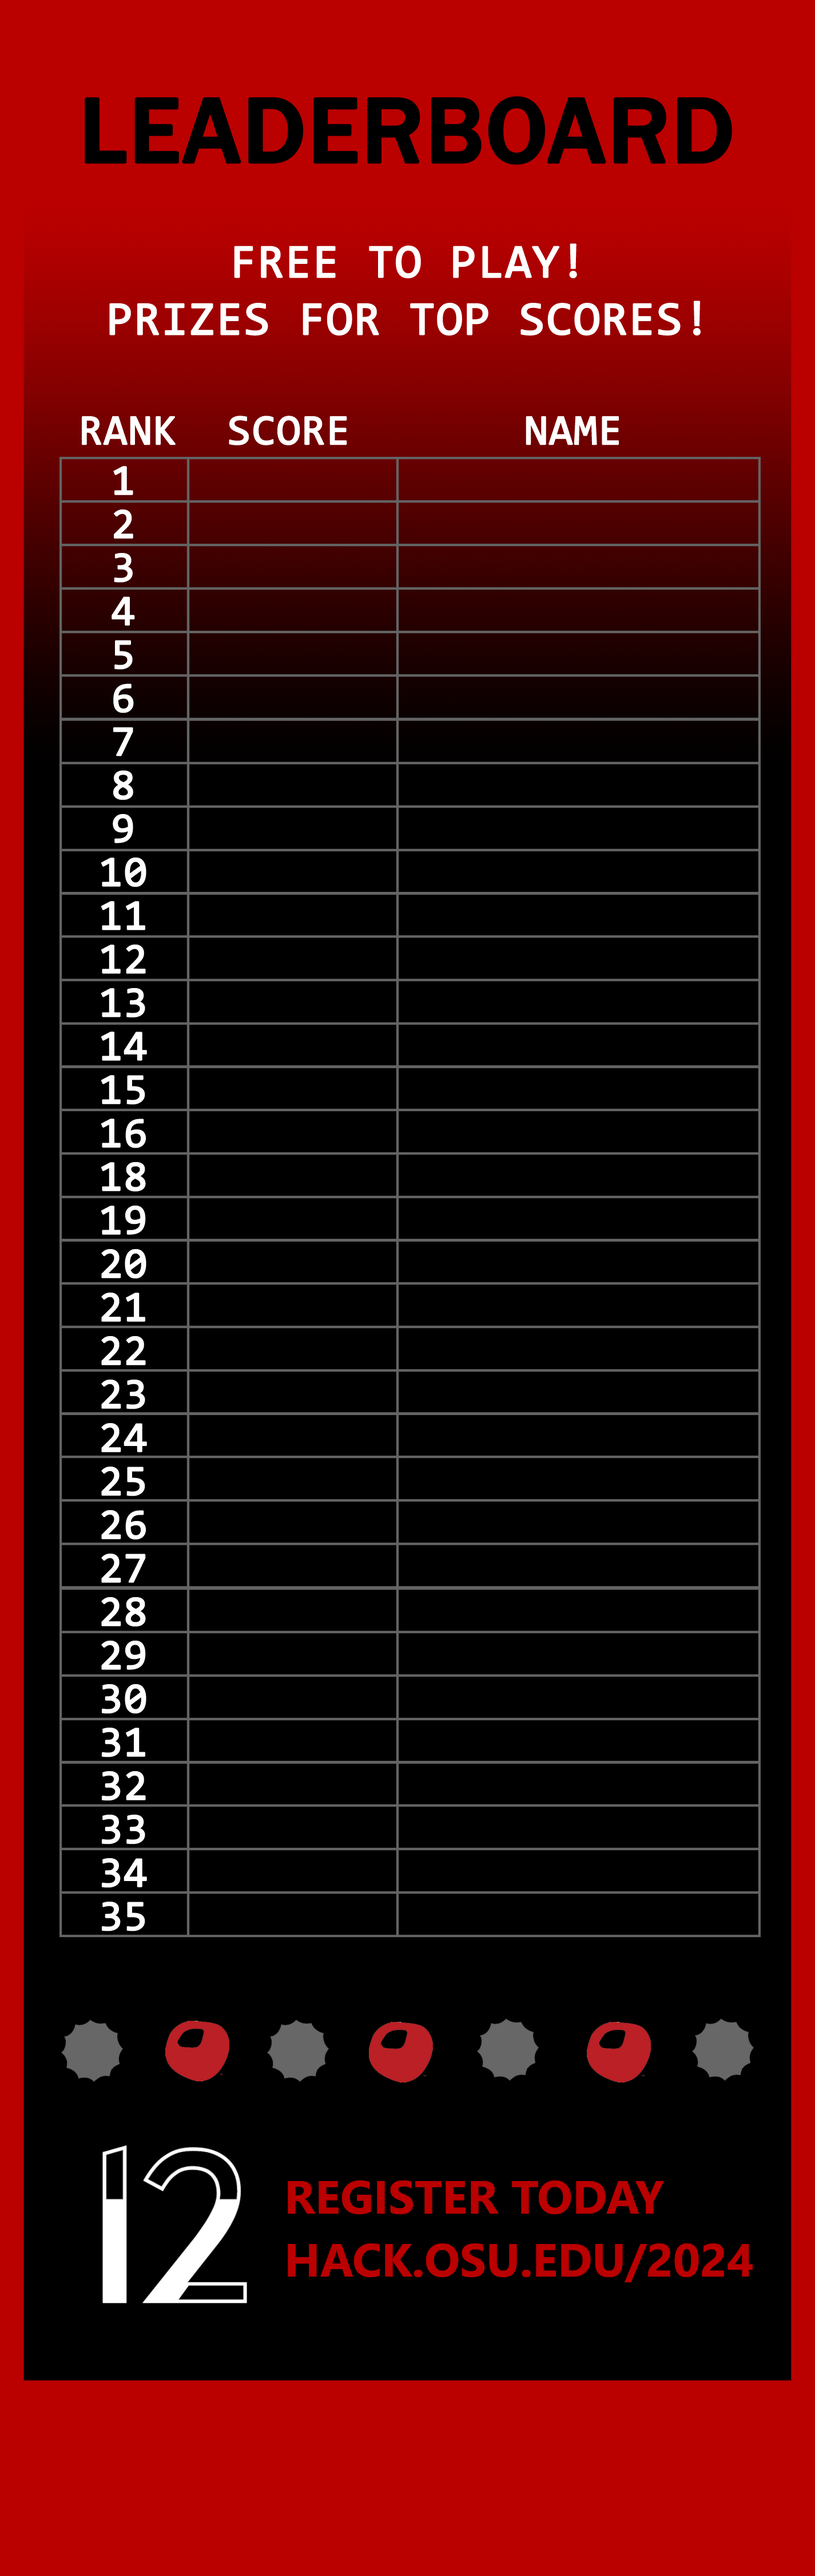
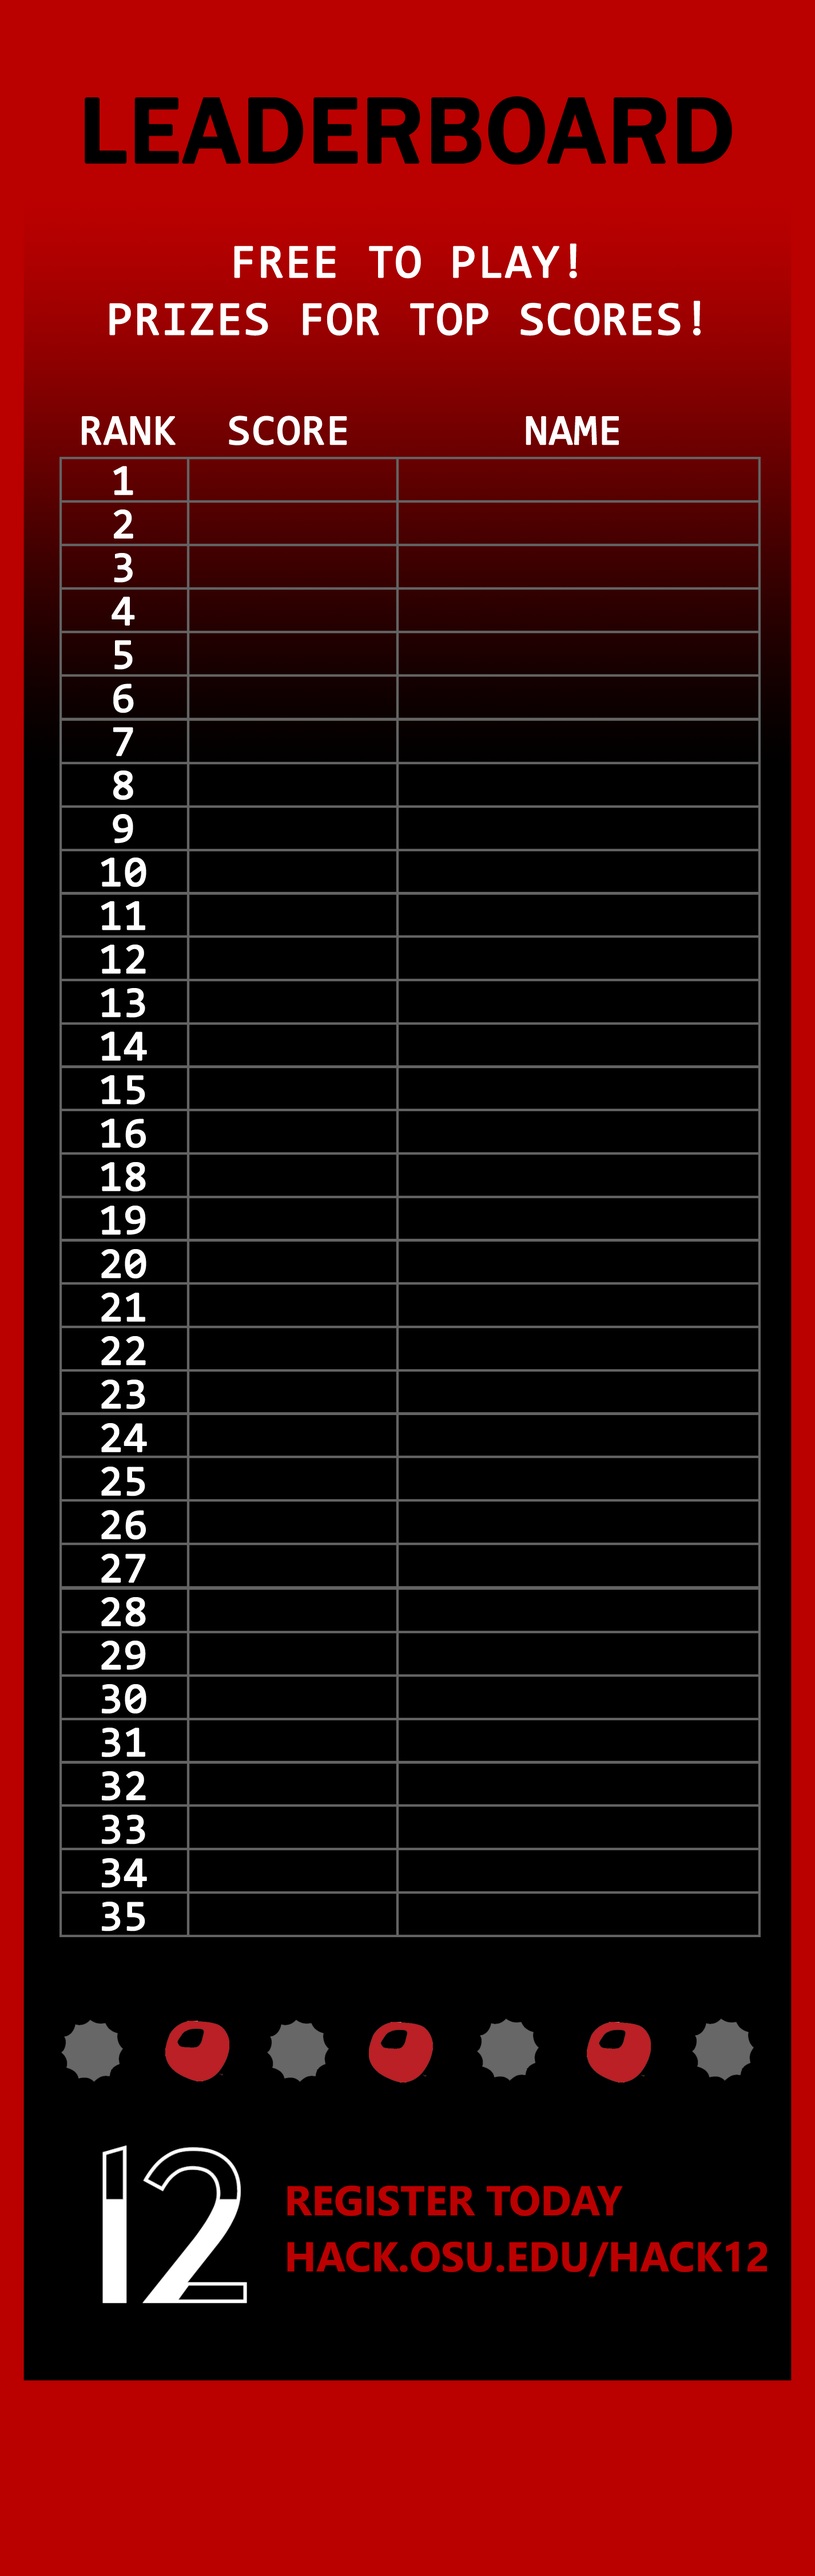
Amend 2024 Graphics
* use .../hack12 link instead of /2024
* shift dates back a day
* update register call to action on bottom of game screen

Changed region(s): [[0.3396, 0.84, 0.9572, 0.9022]]

diff --git a/src/main.py b/src/main.py
@@ -100,7 +100,7 @@ class GameView(arcade.View):
 
         ## Static Content
         # Advertisement Note
-        self.st_adtxt = arcade.Text(text="REGISTER TODAY @ HACK.OSU.EDU/2024",
+        self.st_adtxt = arcade.Text(text="REGISTER @ HACK.OSU.EDU/HACK12",
                                     start_x=WINDOW_WIDTH / 2,
                                     start_y=80,
                                     color=arcade.color.WHITE,
